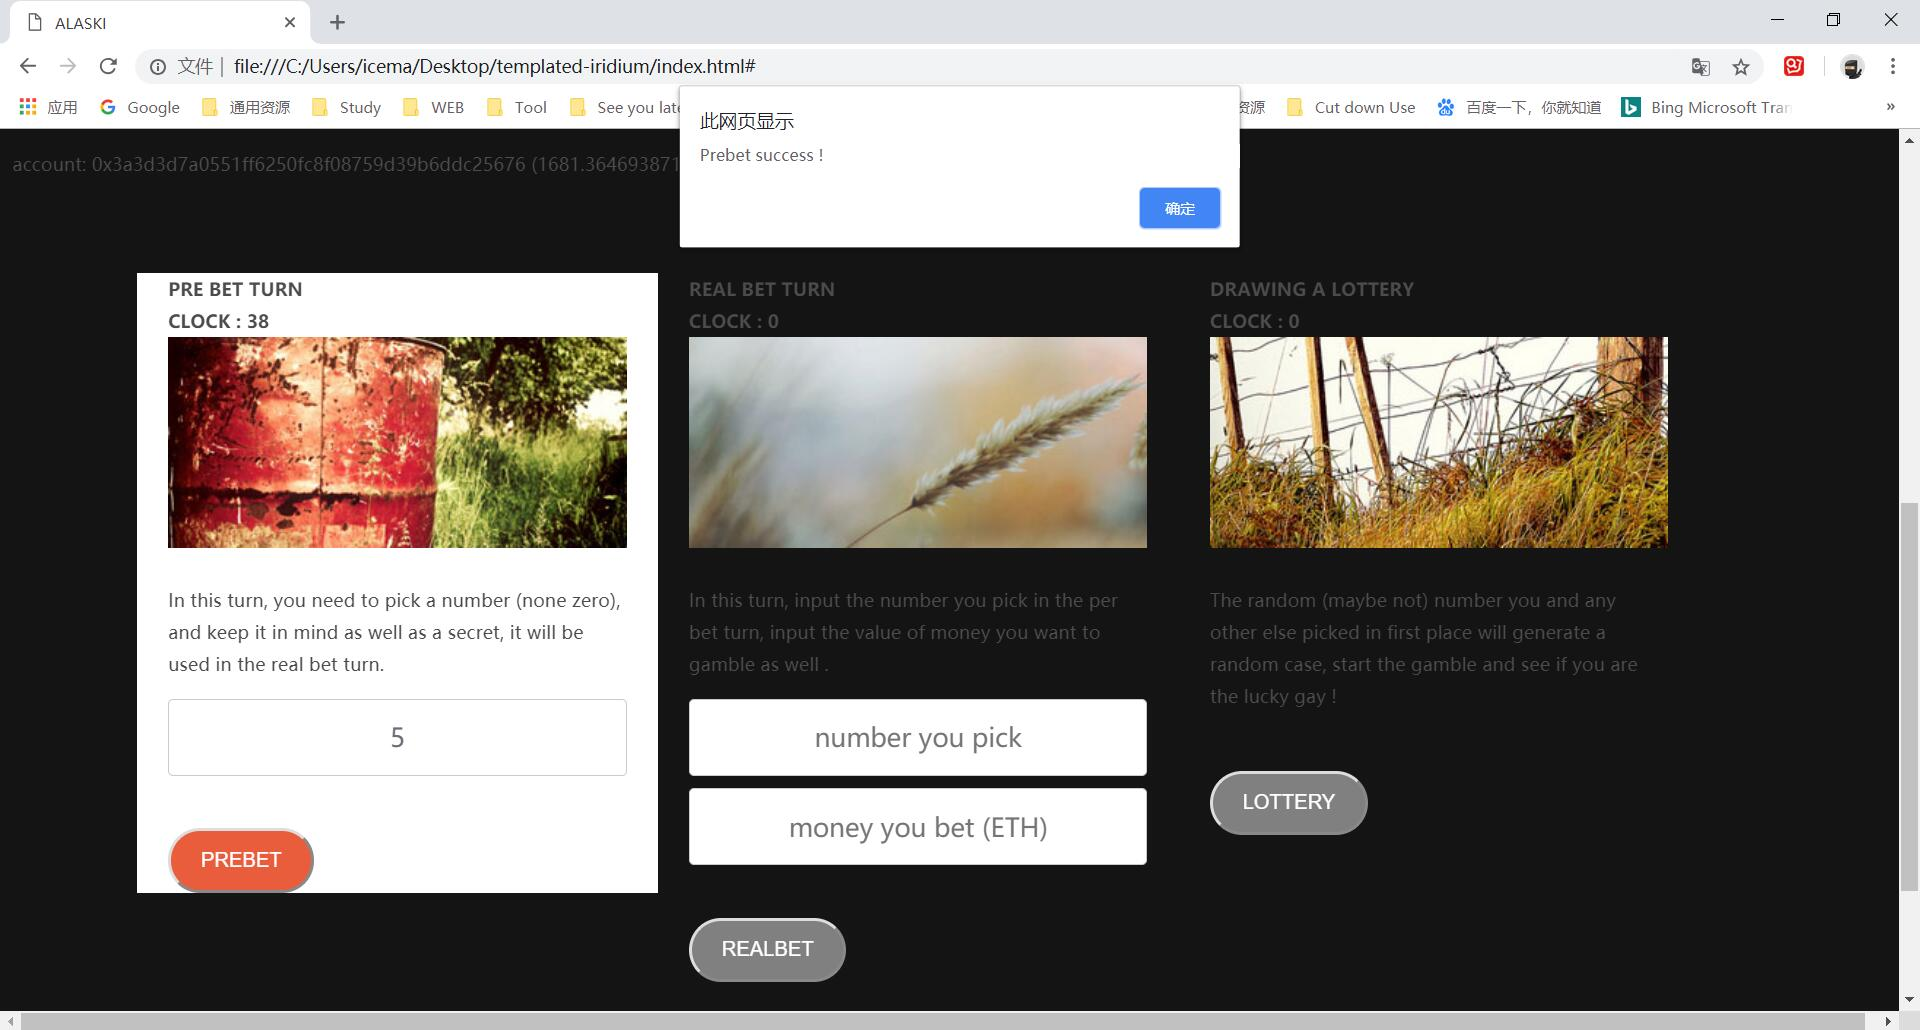
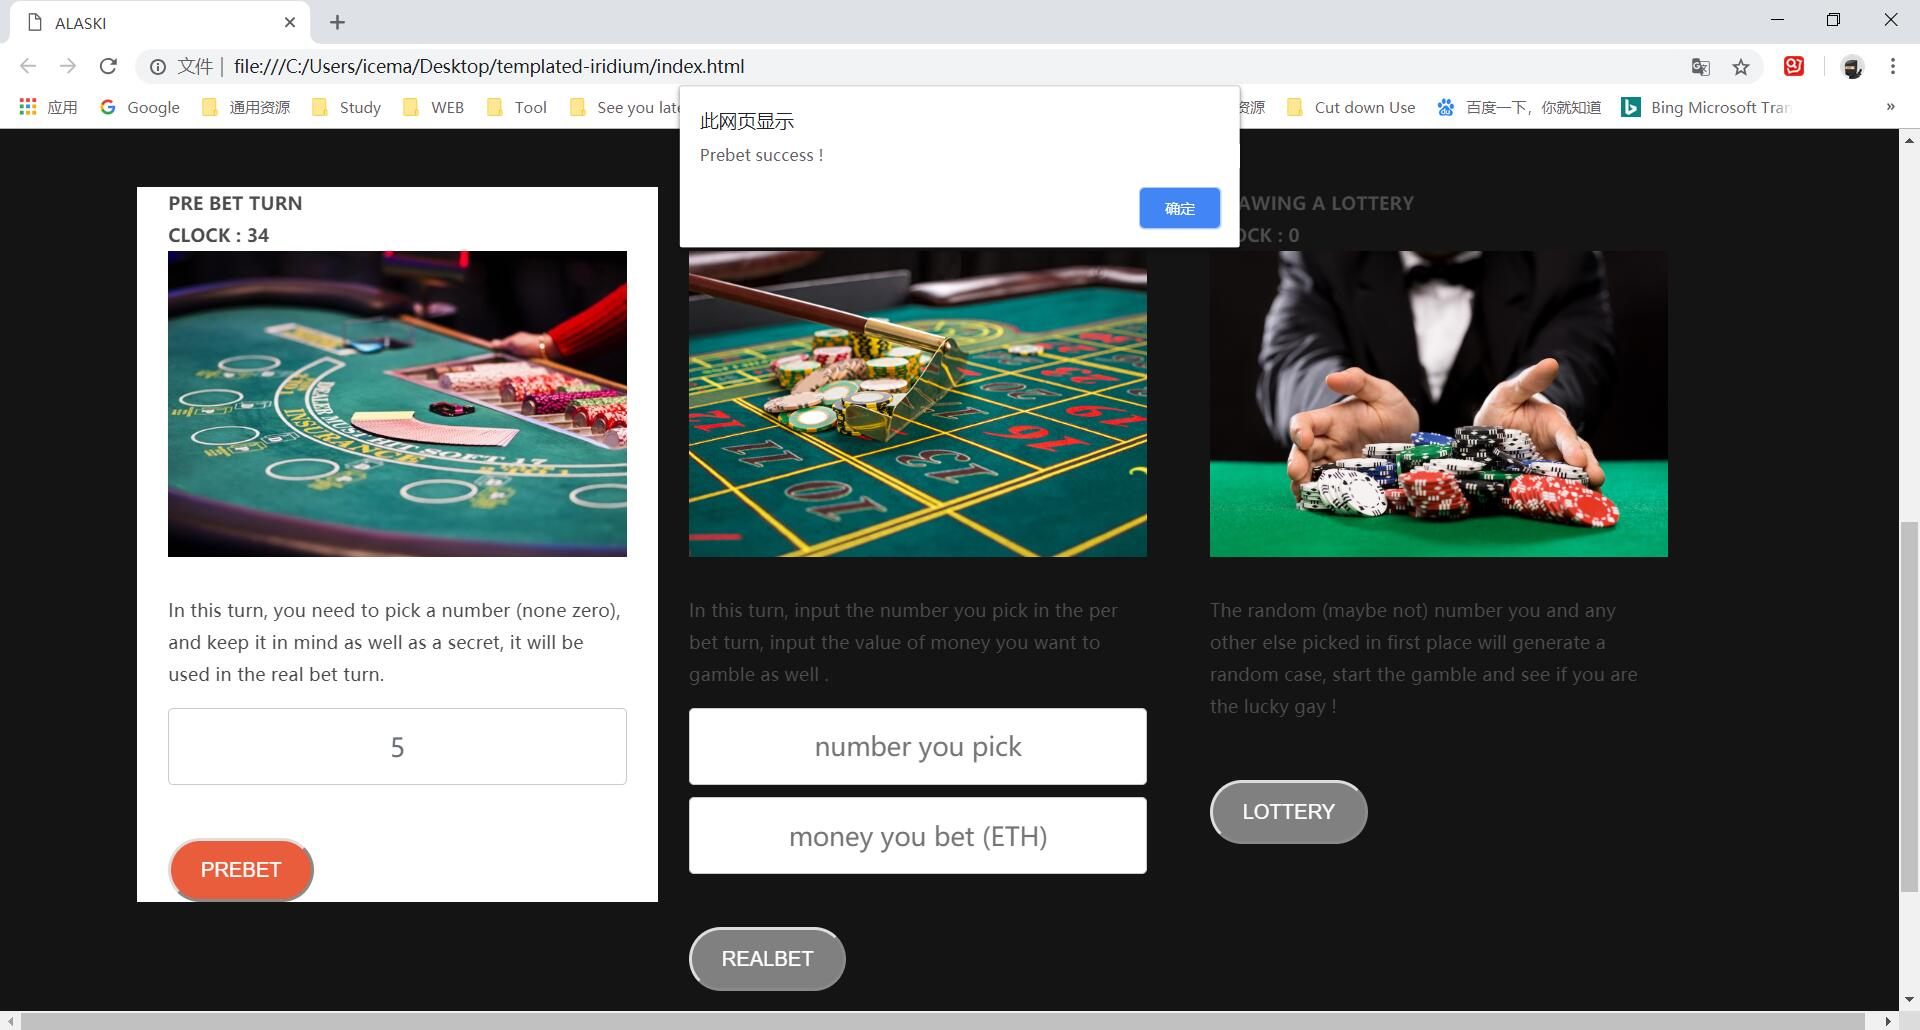
更改新图片，完成报告

Changed region(s): [[0.0312, 0.1553, 0.875, 0.9631], [0.0625, 0.7767, 0.3438, 0.901], [0.625, 0.7456, 0.7188, 0.8388]]

diff --git a/js/bcp.js b/js/bcp.js
@@ -4,9 +4,7 @@ window.APP = {
[1 lines of base64/hex data omitted]
   account : "0x3a3d3d7a0551ff6250fc8f08759d39b6ddc25676",
   password: "000000",
-  // contract_addr: "0xec71a58a08d0da8a7dc5cbf73e430e78f6ac7af8",
   contract_addr: "0x4b1c2b68536491d2d2d6b73ee165c25367d6525f",
-  // state : ["预下注", "下注", "开奖"],
   state_time : [],
   clock : function () {
     this.APP.time_left = this.APP.time_left - 1;

diff --git a/index.html b/index.html
@@ -41,7 +41,7 @@
 						<div class="4u" id="prebet_div">
 							<h2>Pre bet turn</h2>
 							<h3>clock : <span class="clock_val">0</span></h3>
-							<a href="#" class="image full"><img src="images/pic01.jpg" alt="" /></a>
+							<a href="#" class="image full"><img src="images/prebet.jpg" alt="" /></a>
 							<p>In this turn, you need to pick a number (none zero), and keep it in mind as well as a secret, it will be used in
 								the real bet turn.</p>
 							<input type="text" id="pre_pick_num" placeholder="number you pick">
@@ -50,7 +50,7 @@
 						<div class="4u" id="realbet_div">
 							<h2>Real bet turn</h2>
 							<h3>clock : <span class="clock_val">0</span></h3>
-							<a href="#" class="image full"><img src="images/pic02.jpg" alt="" /></a>
+							<a href="#" class="image full"><img src="images/bet.jpg" alt="" /></a>
 							<p>In this turn, input the number you pick in the per bet turn, input the value of money you want to gamble as well
 								.</p>
 							<input type="text" id="real_pick_num" placeholder="number you pick"><input type="text" id="value_num" placeholder="money you bet (ETH)">
@@ -59,7 +59,7 @@
 						<div class="4u" id="lottery_div">
 							<h2>Drawing a lottery</h2>
 							<h3>clock : <span class="clock_val">0</span></h3>
-							<a href="#" class="image full"><img src="images/pic03.jpg" alt="" /></a>
+							<a href="#" class="image full"><img src="images/lottery.jpg" alt="" /></a>
 							<p>The random (maybe not) number you and any other else picked in first place will generate a random case, start
 								the gamble and see if you are the lucky gay !</p>
 							<button class="button disabled_button" id="lottery" disabled="disabled">lottery</button>

diff --git a/css/style.css b/css/style.css
@@ -291,7 +291,7 @@
 	#header
 	{
 		position: relative;
-		background: #2a2f27 url(../images/banner.jpg) no-repeat;
+		background: #2a2f27 url(../images/casino.jpg) no-repeat;
 		background-size: cover;
 	}
 

diff --git a/README.md b/README.md
@@ -26,11 +26,62 @@
 
 ## 2. 使用说明
 
+1. 开启本地geth在8545端口`--rpc --rpcport "8545"`，暴露API`-- rpcapi="db,eth,net,web3,personal,web3"`。
+2. 使用remix将合约gamble.sol在本地链上部署。
+3. 部署过后，将合约的地址复制到`js/bcp.js:8`的`contrct_addr`变量。
+4. 双击index.html，输入本地账户的用户名，密码登入。
 
+![登入界面](https://github.com/CastleOnTheHill/Alaski/blob/master/report_images/%E7%99%BB%E5%85%A5%E7%95%8C%E9%9D%A2.png?raw=true)
 
+![界面1](https://github.com/CastleOnTheHill/Alaski/blob/master/report_images/%E7%95%8C%E9%9D%A21.png?raw=true)
 
+5. 依次在规定时间内完成预下注、下注、最后开奖。
+
+![界面2](https://github.com/CastleOnTheHill/Alaski/blob/master/report_images/%E7%95%8C%E9%9D%A22.png?raw=true)
 
 ## 3. 测试
 
+### 1. 初始状态
 
+登入成功之后我们可以看到，赌场的拥有者，和当前的赌池金额3个以太币，当前用户以及用户余额。
+
+![初始状态](https://github.com/CastleOnTheHill/Alaski/blob/master/report_images/1%E5%88%9D%E5%A7%8B%E7%8A%B6%E6%80%81.jpg?raw=true)
+
+### 2.预下注
+
+当时间轮到预下注时，填一个自己想要的数字，点击预下注按钮后，页面会发起一个调用合约函数的交易。
+
+![预下注1](https://github.com/CastleOnTheHill/Alaski/blob/master/report_images/2.1%E9%A2%84%E4%B8%8B%E6%B3%A8.jpg?raw=true)
+
+等到矿工将这些交易确认打包，生成一个新的区块之后，根据监听函数的返回信息，给客户相应的提示：预下注成功或失败。
+
+![预下注2](https://github.com/CastleOnTheHill/Alaski/blob/master/report_images/2.2%E9%A2%84%E4%B8%8B%E6%B3%A8.jpg?raw=true)
+
+
+
+### 3. 下注
+
+当预下注成功之后，并且在下注的时间段内，客户再次输入之前选择的数字，和想要下注的金额（单位为ETH），点击REALBET按钮后，页面发起一个调用合约函数的交易。
+
+![下注1](https://github.com/CastleOnTheHill/Alaski/blob/master/report_images/3.1%E4%B8%8B%E6%B3%A8.jpg?raw=true)
+
+等到矿工将这些交易确认打包，生成一个新的区块之后，根据监听函数的返回信息，给客户相应的提示：下注成功或失败。
+
+![预下注2](https://github.com/CastleOnTheHill/Alaski/blob/master/report_images/3.2%E4%B8%8B%E6%B3%A8.jpg?raw=true)
+
+### 4. 开奖
+
+当前两步成功完成之后，并且在开奖的时间段内，用户点击LOTTERY按钮后，页面发起一个调用合约函数的交易。
+
+![开奖1](https://github.com/CastleOnTheHill/Alaski/blob/master/report_images/4.1%E5%BC%80%E5%A5%96.jpg?raw=true)
+
+等到矿工将这些交易确认打包，生成一个新的区块之后，根据监听函数的返回信息，给客户相应的提示：开奖结果，赢了或是输了。
+
+![开奖2](https://github.com/CastleOnTheHill/Alaski/blob/master/report_images/4.2%E5%BC%80%E5%A5%96.jpg?raw=true)
+
+### 5. 结束状态
+
+因为上面的演示中用户输给了庄家1ETH，可以看到此时赌池的金额相对开始的状态多了1ETH。
+
+![结束状态](https://github.com/CastleOnTheHill/Alaski/blob/master/report_images/5%E7%BB%93%E6%9D%9F%E7%8A%B6%E6%80%81.jpg?raw=true)
 
